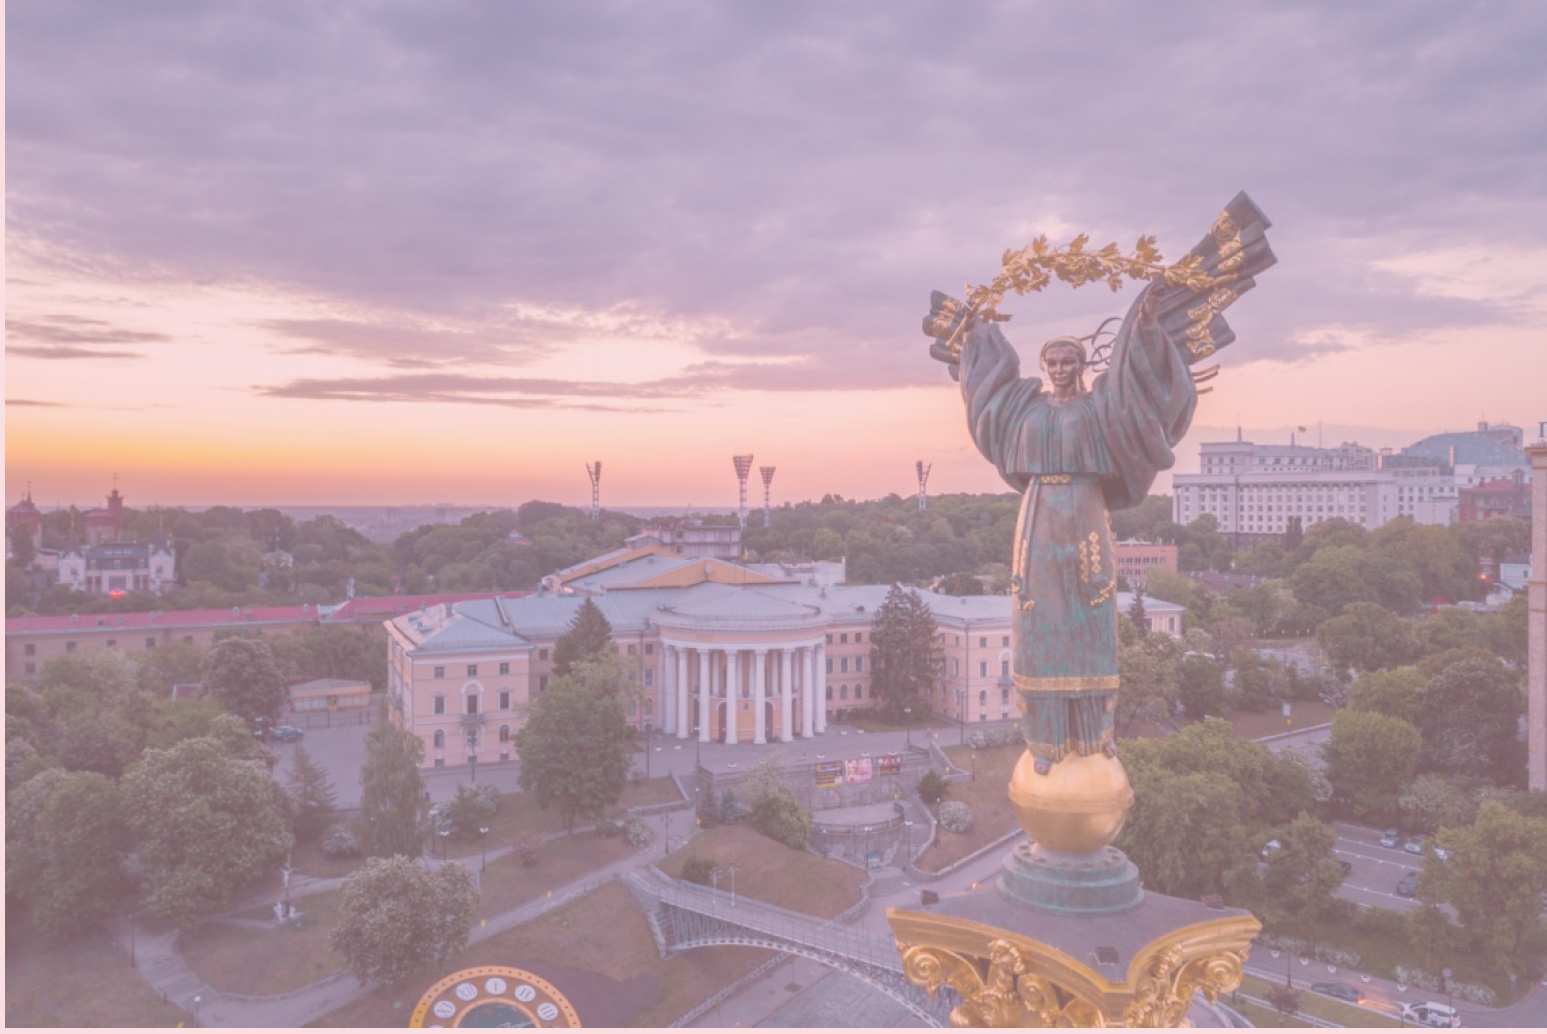
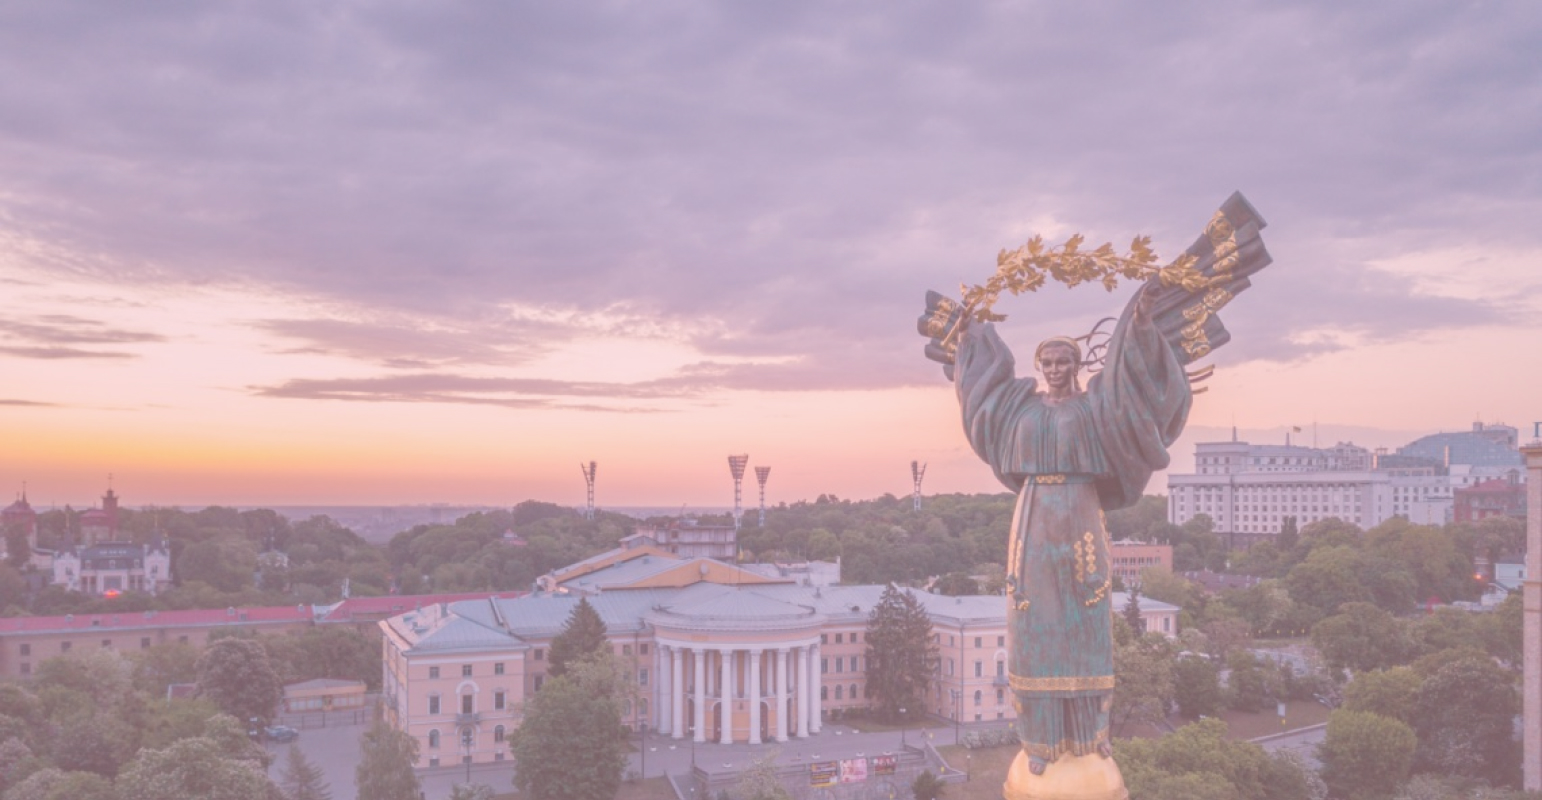
Adding slider to the index.html

diff --git a/index.html b/index.html
@@ -7,7 +7,6 @@
     <title>RvZ Invest</title>
     <link rel="stylesheet" href="css/style.css">
     <link href="https://fonts.googleapis.com/css2?family=Roboto:ital,wght@0,100;0,300;0,400;0,500;0,700;0,900;1,100;1,300;1,400;1,500;1,700;1,900&display=swap" rel="stylesheet">
-
 </head>
 <body>
     <header>
@@ -24,12 +23,31 @@
             </ul>
         </div>
     </header>
+
     <main>
-        <div class="container content">
-            <h1 class="padding-7vw">FIND A RIGHT PATH FOR YOUR BUSINESS IN SCANDINAVIA AND UKRAINE</h1>
-            <p class="padding-7vw">We connect investors and businesses in Denmark and Ukraine</p>
-            <div class="main-button"><a href="#" class="custom-button magenta-button">Contact us</a></div> 
-        </div>
+
+        <div class="slider">
+            <div class="container content absolute-main">
+                <h1 class="padding-7vw">FIND A RIGHT PATH FOR YOUR BUSINESS IN SCANDINAVIA AND UKRAINE</h1>
+                <p class="padding-7vw">We connect investors and businesses in Denmark and Ukraine</p>
+                <div class="main-button"><a href="#" class="custom-button magenta-button">Contact us</a></div> 
+            </div>
+            <div class="slider-item">
+              <img src="img/home/slider/main.jpg">
+            </div>
+          
+            <div class="slider-item">
+              <img src="img/home/slider/2.jpg">
+            </div>
+
+            <div class="slider-item">
+              <img src="img/home/slider/3.jpg">
+            </div>
+          
+            <a class="previous" onclick="previousSlide()">&#10094;</a>
+            <a class="next" onclick="nextSlide()">&#10095;</a>
+          </div>
+
     </main>
     <div class="about mouse-paralax">
         <div class="container content about-content">
@@ -155,10 +173,9 @@
             </div>
         </div>
     </footer>
-    <script
-  src="https://code.jquery.com/jquery-3.6.0.min.js"
-  integrity="sha256-/xUj+3OJU5yExlq6GSYGSHk7tPXikynS7ogEvDej/m4="
-  crossorigin="anonymous"></script>
+    <script  src="https://code.jquery.com/jquery-3.6.0.min.js"
+      integrity="sha256-/xUj+3OJU5yExlq6GSYGSHk7tPXikynS7ogEvDej/m4=" 
+      crossorigin="anonymous"></script>
     <script src="js/script.js"></script> 
 </body>
 </html>

diff --git a/css/style.css b/css/style.css
@@ -58,15 +58,15 @@ header{
 
 /*end of header styling*/
 
-main{
+/*main{
     background-image: url(../img/home/main.jpg);
     background-repeat: no-repeat;
     background-size: cover;
-}
+}*/
 
 .content{
-    padding-top: 5.25em;
-    padding-bottom: 7.8em;
+    padding-top: 6.25em;
+    padding-bottom: 8.8em;
 }
 
 .padding-7vw{
@@ -177,7 +177,7 @@ p{
 #rectangle2{
     position: absolute;
     width: 18.867vw;
-    height: 25.533vw;
+    height: 23.533vw;
     left: 340px;
     top: 120px;
 
@@ -438,6 +438,7 @@ footer p{
         height: 30vw;
     }
 }
+
 @media screen and (max-width: 1000px) { 
     .logo-navigation, .footer-content{
         display: flex;
@@ -580,6 +581,7 @@ footer p{
 
     /*end of footer*/
 }
+
 @media screen and (max-width: 850px) { 
     .about-right{
         margin-top: 3%;
@@ -710,5 +712,51 @@ button:hover{
     box-shadow: 0 0 10px 0 #F27989 inset, 0 0 10px 4px #F27989;
 }
 
-.totop{
+
+.slider{
+    max-width: 100%;
+    position: relative;
+    
+    margin: auto;
+    overflow: hidden;
+
+    transition:2s all;
 }
+
+.absolute-main{
+    position: absolute;
+    top: 15%;
+    left: 10%;
+}
+.slider .slider-item img {
+    object-fit: cover;
+    overflow: hidden;
+    height: 800px;
+}
+
+
+.slider .previous, .slider .next {
+    cursor: pointer;
+    position: absolute;
+    top: 50%;
+    width: auto;
+    padding: 16px;
+    color: white;
+    font-weight: bold;
+    font-size: 16px;
+    transition: 0.6s ease;
+    border-radius: 0 3px 3px 0;
+
+    opacity: 0.7;
+}
+.slider .next {
+    right: 0;
+    border-radius: 3px 0 0 3px;
+}
+
+.slider .previous:hover,
+.slider .next:hover {
+    background-color: rgba(0, 0, 0, 0.2);
+    opacity: 1;
+}
+

diff --git a/js/script.js b/js/script.js
@@ -13,3 +13,38 @@ $('.mouse-paralax').on('mousemove', (e) => {
     );
 
 });
+
+function nextSlide() {showSlides(slideIndex += 1);}
+
+function previousSlide() {showSlides(slideIndex -= 1);}
+
+function currentSlide(n) {showSlides(slideIndex = n);}
+
+function showSlides(n) {
+    let slides = document.getElementsByClassName("slider-item");
+
+    if (n > slides.length) {slideIndex = 1}
+    if (n < 1) {slideIndex = slides.length}
+
+    for (let slide of slides) {slide.style.display = "none";}
+
+    slides[slideIndex - 1].style.display = "block";    
+}
+
+let slideIndex = 0;
+
+carousel();
+
+function carousel() {
+  var i;
+  var x = document.getElementsByClassName("slider-item");
+
+  for (i = 0; i < x.length; i++) { x[i].style.display = "none";}
+
+  slideIndex++;
+  if (slideIndex > x.length) {slideIndex = 1}
+
+  x[slideIndex-1].style.display = "block";
+  
+  setTimeout(carousel, 5000);
+}
